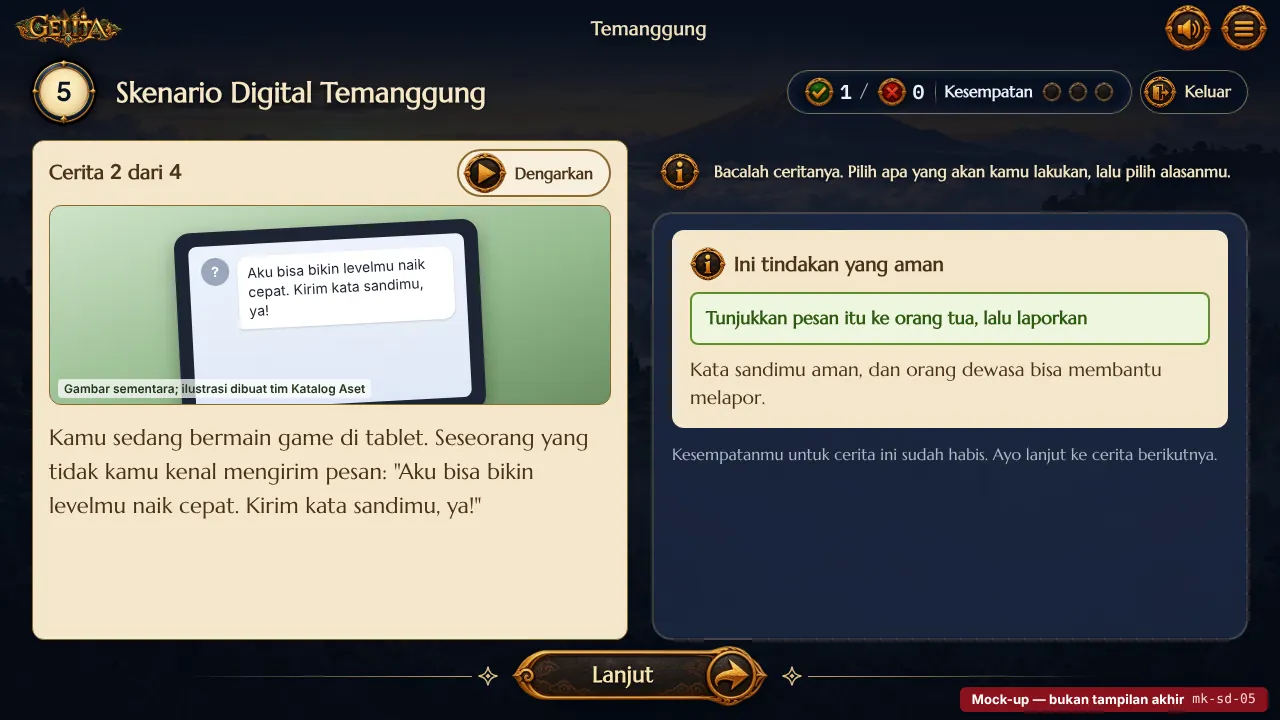
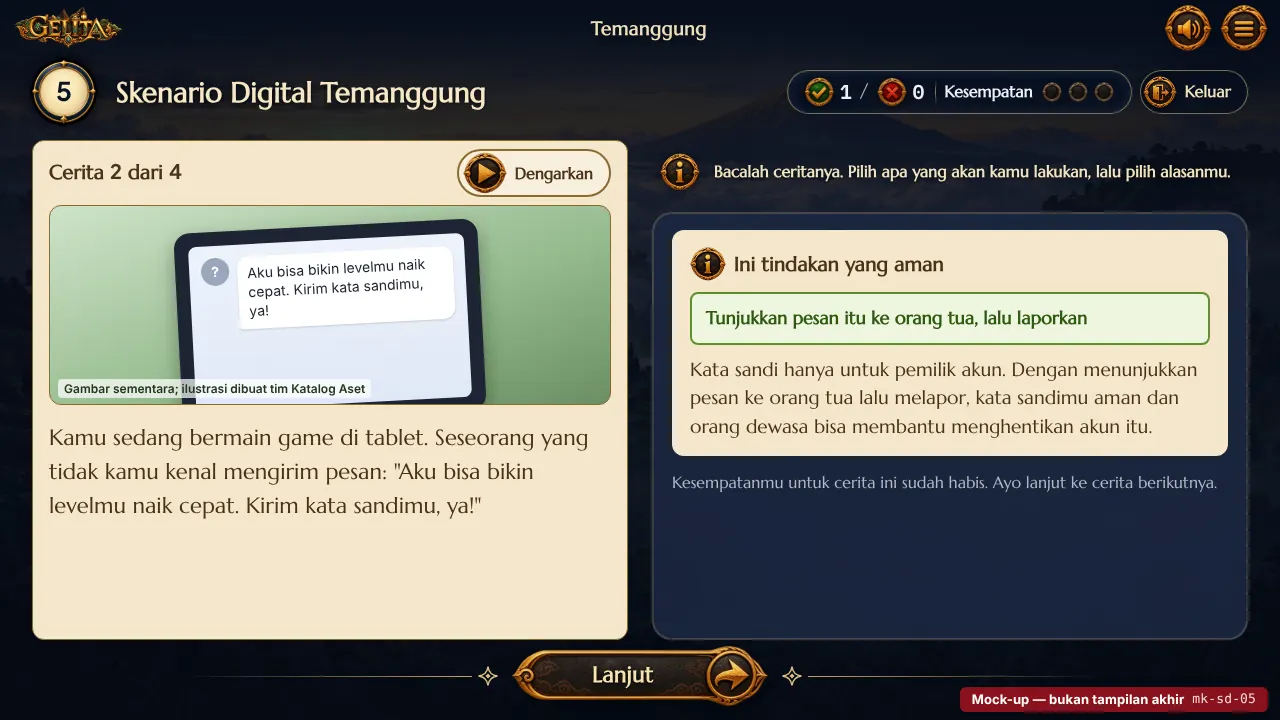
Write the Skenario Digital tries-exhausted explanations and redraw mk-sd-05
One explanation line per scenario (24) in 08, shown once after the third
try runs out without the safe action, with the rule in Cara membaca: name
the risk, then why the safe action works; no tepat/salah/gagal, not read
aloud, not scored. mk-sd-05 now shows the tmg-5-a02 line. 18, 04, and
PROGRESS updated.

Changed region(s): [[0.5, 0.4889, 0.9688, 0.7028]]

diff --git a/docs/revisi-10-analitik/gambar/mockup/src/mk-sd-05.html b/docs/revisi-10-analitik/gambar/mockup/src/mk-sd-05.html
@@ -50,7 +50,7 @@
             </div>
           </div>
         </div>
-        <div class="sd-panel stage-box"><div class="sd-feedback"><h3><img src="../../../../../public/assets/ui/round-info.webp" alt=""> Ini tindakan yang aman</h3><div class="sd-safe">Tunjukkan pesan itu ke orang tua, lalu laporkan</div><p>Kata sandimu aman, dan orang dewasa bisa membantu melapor.</p></div><p class="sd-tries-note">Kesempatanmu untuk cerita ini sudah habis. Ayo lanjut ke cerita berikutnya.</p></div>
+        <div class="sd-panel stage-box"><div class="sd-feedback"><h3><img src="../../../../../public/assets/ui/round-info.webp" alt=""> Ini tindakan yang aman</h3><div class="sd-safe">Tunjukkan pesan itu ke orang tua, lalu laporkan</div><p>Kata sandi hanya untuk pemilik akun. Dengan menunjukkan pesan ke orang tua lalu melapor, kata sandimu aman dan orang dewasa bisa membantu menghentikan akun itu.</p></div><p class="sd-tries-note">Kesempatanmu untuk cerita ini sudah habis. Ayo lanjut ke cerita berikutnya.</p></div>
         <div class="arena-actions stage-box"><button class="btn-plate is-next btn-action" type="button" style="--plate: url(&quot;../../../../../public/assets/ui/plate-next.webp&quot;)"><span>Lanjut</span></button></div>
       </div>
     </div>

diff --git a/docs/revisi-10-analitik/08_DRAF_BANK_SOAL.md b/docs/revisi-10-analitik/08_DRAF_BANK_SOAL.md
@@ -27,7 +27,7 @@ Ini isi bank soal baru, ditulis mengikuti kisi-kisi. Dokumen ini masih **draf un
 
 **Aturan kode di Periksa Unggahan (babak 2 Cari Objek).** Setiap petunjuk punya beberapa *pengecoh utama*, bagian adegan yang sengaja dibuat menggoda; kodenya ditulis di tabel. Mengetuk bagian ketuk lain, termasuk kunci petunjuk lain → **kode jenis petunjuk itu**: atribusi BUD-ATR, representasi BUD-REP, izin BUD-IZN, menghargai tradisi BUD-ETK. Mengetuk tempat kosong di dekat kunci → **NON-SEN**, bukan percobaan dan tidak memakai kesempatan (keputusan 26 Oktober 2026, [kamus data](11_KAMUS_DATA.md#analitik-6-pola-kesalahan)).
 
-**Skenario Digital.** Skor tindakan: tepat = 2, kurang tepat = 1, berisiko = 0. Alasan tidak diskor, hanya dikode. Kalimat tanya alasan selalu sama: **"Yang paling penting kupikirkan di sini adalah …"**. Pilihan tindakan dan alasan diacak per pengerjaan. Umpan balik tidak memakai kata "salah" atau "gagal".
+**Skenario Digital.** Skor tindakan: tepat = 2, kurang tepat = 1, berisiko = 0. Alasan tidak diskor, hanya dikode. Kalimat tanya alasan selalu sama: **"Yang paling penting kupikirkan di sini adalah …"**. Pilihan tindakan dan alasan diacak per pengerjaan. Umpan balik tidak memakai kata "salah" atau "gagal". **Penjelasan setelah kesempatan habis** tampil sekali, setelah kesempatan ketiga habis tanpa tindakan tepat: tindakan tepat ditampilkan, lalu satu kalimat penjelasan dari baris ini (keputusan pemilik proyek 26 Oktober 2026, [18](18_MOCKUP_LAYAR_BARU.md)). Kalimatnya menyebut apa yang membuat situasi itu berisiko, lalu mengapa tindakan tepat itu aman; tidak memakai kata "tepat", "salah", atau "gagal", tidak dibacakan, dan tidak diskor.
 
 **Nama dan alamat tiruan.** Semua akun, sanggar, warung, situs, dan tokoh di bacaan digital adalah fiktif. Unggahan tampil di aplikasi media sosial fiktif **Kedugram**, jadi nama akun di game tidak merujuk ke akun di platform sungguhan. Komentator ditulis dengan nama depan saja, tanpa @. Alamat situs memakai domain `.example`. Sebelum dipakai, setiap nama dicek bahwa tidak sama dengan akun, sanggar, atau usaha nyata (lihat *Yang harus dicek sebelum validasi*).
 
@@ -219,6 +219,8 @@ Pengecoh: angklung, ondel-ondel, perahu pinisi, sasando, semuanya **INF-BUD**.
 | Tutup situsnya dan cerita ke orang tua | 2 | — | Pilihan yang aman. Orang tua bisa membantu memeriksa apakah kuis itu sungguhan. |
 | Tutup situsnya dan lanjut bermain yang lain | 1 | DIG-PSF | Kamu sudah aman. Akan lebih baik lagi kalau kamu cerita ke orang tua, supaya mereka tahu ada situs seperti itu. |
 
+**Penjelasan setelah kesempatan habis:** Situs yang tidak jelas pembuatnya bisa memakai alamat dan nama sekolahmu. Dengan menutup situs dan bercerita ke orang tua, datamu aman dan orang tua bisa memeriksa kuis itu.
+
 | Alasan | Kode |
 | --- | --- |
 | Alamat dan sekolahku bisa dipakai orang asing | R-RISK |
@@ -232,6 +234,8 @@ Pengecoh: angklung, ondel-ondel, perahu pinisi, sasando, semuanya **INF-BUD**.
 | Kirim kata sandinya supaya levelmu cepat naik | 0 | DIG-SAN | Orang yang tahu kata sandimu bisa masuk dan memakai akunmu. Kata sandi hanya untuk pemilik akun. |
 | Tunjukkan pesan itu ke orang tua, lalu laporkan | 2 | — | Tepat sekali. Kata sandimu aman, dan orang dewasa bisa membantu melapor. |
 | Tidak membalas, lalu keluar dari game itu | 1 | DIG-PSF | Kata sandimu aman. Ceritakan juga ke orang tua supaya akun itu bisa dilaporkan. |
+
+**Penjelasan setelah kesempatan habis:** Kata sandi hanya untuk pemilik akun. Dengan menunjukkan pesan ke orang tua lalu melapor, kata sandimu aman dan orang dewasa bisa membantu menghentikan akun itu.
 
 | Alasan | Kode |
 | --- | --- |
@@ -247,6 +251,8 @@ Pengecoh: angklung, ondel-ondel, perahu pinisi, sasando, semuanya **INF-BUD**.
 | Tanya kakakmu dulu, boleh diunggah atau tidak | 1 | DIG-IZN | Bertanya itu bagus. Tapi yang punya akun adalah ibumu, jadi izinnya perlu dari ibu. |
 | Tunggu ibu selesai memasak, lalu tanya ibu | 2 | — | Tepat. Ibu bisa memutuskan, dan bisa membantu memilih siapa saja yang boleh melihat foto itu. |
 
+**Penjelasan setelah kesempatan habis:** Akun itu milik ibumu, jadi ibu yang berhak memutuskan. Dengan menunggu lalu bertanya ke ibu, kamu meminta izin kepada pemilik akunnya.
+
 | Alasan | Kode |
 | --- | --- |
 | Ibu pemilik akunnya, jadi ibu yang memutuskan | R-ETIK |
@@ -260,6 +266,8 @@ Pengecoh: angklung, ondel-ondel, perahu pinisi, sasando, semuanya **INF-BUD**.
 | Teruskan ke grup kelas supaya teman-teman tahu | 0 | DIG-HOX | Kabar tanpa sumber belum tentu benar. Kalau diteruskan, banyak teman bisa ikut bingung. |
 | Tanyakan dulu ke wali kelas apakah itu benar | 2 | — | Tepat. Guru dan orang tua bisa memeriksa ke sumber yang jelas, misalnya pengumuman sekolah. |
 | Tidak meneruskan dan tidak bertanya ke siapa pun | 1 | DIG-PSF | Kamu tidak ikut menyebarkan, bagus. Bertanya ke guru atau orang tua akan lebih membantu. |
+
+**Penjelasan setelah kesempatan habis:** Kabar tanpa pembuat belum tentu benar. Dengan bertanya dulu ke wali kelas, kamu tahu kebenarannya dari sumber yang jelas sebelum ada yang ikut bingung.
 
 | Alasan | Kode |
 | --- | --- |
@@ -277,6 +285,8 @@ Pengecoh: angklung, ondel-ondel, perahu pinisi, sasando, semuanya **INF-BUD**.
 | Berhenti mengisi dan tanya orang tua dulu | 2 | — | Pilihan yang aman. Orang tua bisa mencari tahu siapa penyelenggaranya. |
 | Berhenti mengisi, lalu cari lomba yang lain | 1 | DIG-PSF | Datamu aman. Akan lebih baik kalau orang tua juga tahu. |
 
+**Penjelasan setelah kesempatan habis:** Penyelenggara lomba ini tidak jelas, padahal ia meminta nomor HP orang tua dan alamat rumah. Dengan berhenti dan bertanya ke orang tua, datamu aman dan orang tua bisa mencari tahu siapa penyelenggaranya.
+
 | Alasan | Kode |
 | --- | --- |
 | Data pribadi bisa dipakai orang asing | R-RISK |
@@ -290,6 +300,8 @@ Pengecoh: angklung, ondel-ondel, perahu pinisi, sasando, semuanya **INF-BUD**.
 | Tulis kata sandinya supaya dapat koin gratis | 0 | DIG-SAN | Kata sandi yang ditulis di ruang obrolan bisa dibaca orang lain. Akunmu bisa diambil alih. |
 | Tunjukkan ke orang tua, lalu laporkan akunnya | 2 | — | Tepat. Akunmu aman dan akun itu bisa dilaporkan. |
 | Tidak menjawab, lalu keluar dari ruang obrolan | 1 | DIG-PSF | Akunmu aman. Ceritakan juga ke orang tua, ya. |
+
+**Penjelasan setelah kesempatan habis:** Kata sandi yang ditulis di ruang obrolan bisa dibaca orang lain. Dengan menunjukkan ke orang tua lalu melaporkan akunnya, akunmu aman dan akun itu bisa dihentikan.
 
 | Alasan | Kode |
 | --- | --- |
@@ -305,6 +317,8 @@ Pengecoh: angklung, ondel-ondel, perahu pinisi, sasando, semuanya **INF-BUD**.
 | Tanya temanmu dulu, boleh diunggah atau tidak | 1 | DIG-IZN | Bertanya itu bagus. Tapi yang berhak memberi izin adalah pemilik akun, yaitu ayahmu. |
 | Tunggu ayah pulang, lalu tanya ayah | 2 | — | Tepat. Ayah bisa memutuskan dan membantu mengatur siapa yang boleh menonton. |
 
+**Penjelasan setelah kesempatan habis:** Akun itu milik ayahmu, jadi ayah yang berhak memberi izin. Dengan menunggu ayah pulang lalu bertanya, kamu meminta izin kepada pemilik akunnya.
+
 | Alasan | Kode |
 | --- | --- |
 | Ayah pemilik akunnya, jadi ayah yang memutuskan | R-ETIK |
@@ -318,6 +332,8 @@ Pengecoh: angklung, ondel-ondel, perahu pinisi, sasando, semuanya **INF-BUD**.
 | Teruskan ke grup lain supaya banyak yang tahu | 0 | DIG-HOX | Kabar tanpa sumber belum tentu benar. Kopi mengandung kafein dan bukan minuman untuk anak-anak. |
 | Tanyakan dulu ke guru apakah itu benar | 2 | — | Tepat. Guru dan orang tua bisa membantu mencari sumber yang dapat dipercaya. |
 | Tidak meneruskan dan tidak bertanya ke siapa pun | 1 | DIG-PSF | Kamu tidak ikut menyebarkan, bagus. Bertanya akan lebih membantu teman-temanmu. |
+
+**Penjelasan setelah kesempatan habis:** Pesan tanpa pembuat belum tentu benar. Dengan bertanya dulu ke guru, kamu tidak ikut menyebarkan kabar yang belum pasti.
 
 | Alasan | Kode |
 | --- | --- |
@@ -533,6 +549,8 @@ Pengecoh: kuda kepang bambu, manisan carica, dadak merak Reog, angklung, bakpia,
 | Berhenti, lalu tanya orang tua apakah aman | 2 | — | Tepat. Kuis yang meminta data pribadi patut dicurigai, dan orang tua bisa membantu memeriksanya. |
 | Berhenti main tanpa cerita ke siapa pun | 1 | DIG-PSF | Datamu aman. Cerita ke orang tua akan membantu kalau aplikasi itu nanti muncul lagi. |
 
+**Penjelasan setelah kesempatan habis:** Kuis ini meminta tanggal lahir dan nama lengkap ibumu, padahal data itu tidak perlu untuk sebuah kuis. Dengan berhenti dan bertanya ke orang tua, datamu tetap aman.
+
 | Alasan | Kode |
 | --- | --- |
 | Data itu bisa dipakai orang untuk membobol akun | R-RISK |
@@ -548,6 +566,8 @@ Pengecoh: kuda kepang bambu, manisan carica, dadak merak Reog, angklung, bakpia,
 | Beri tahu sekarang, nanti kata sandinya diganti | 0 | DIG-SAN | Selama belum diganti, akunmu bisa dipakai orang lain. Lebih aman kalau tidak dibagikan sama sekali. |
 | Tolak dengan ramah, lalu ajak main bersama | 2 | — | Tepat. Akunmu aman dan persahabatan kalian tetap terjaga. |
 | Tolak tanpa menjelaskan apa pun ke Laras | 1 | DIG-PSF | Menolak memberi kata sandi itu benar. Menjelaskan alasannya dengan ramah membuat Laras mengerti dan tidak salah paham. |
+
+**Penjelasan setelah kesempatan habis:** Kata sandi hanya untuk pemilik akun, walaupun yang meminta sahabatmu sendiri. Dengan menolak dengan ramah lalu mengajak main bersama, akunmu aman dan kalian tetap bersahabat.
 
 | Alasan | Kode |
 | --- | --- |
@@ -565,6 +585,8 @@ Pengecoh: kuda kepang bambu, manisan carica, dadak merak Reog, angklung, bakpia,
 | Tanya Dimas dulu, boleh dibagikan atau tidak | 2 | — | Tepat. Foto orang lain hanya dibagikan kalau orangnya setuju. |
 | Simpan fotonya di HP tanpa bertanya ke Dimas | 1 | DIG-PSF | Kamu tidak membagikannya, bagus. Lebih baik lagi kalau kamu bertanya ke Dimas, karena itu fotonya. |
 
+**Penjelasan setelah kesempatan habis:** Dimas mungkin malu kalau foto itu tersebar. Dengan bertanya dulu ke Dimas, kamu hanya membagikan fotonya kalau ia setuju.
+
 | Alasan | Kode |
 | --- | --- |
 | Dimas mungkin malu kalau fotonya disebar | R-ETIK |
@@ -580,6 +602,8 @@ Pengecoh: kuda kepang bambu, manisan carica, dadak merak Reog, angklung, bakpia,
 | Ajak teman-teman langsung berangkat besok | 0 | DIG-HOX | Sebaiknya kabar dicek dulu sebelum dipakai untuk membuat rencana. |
 | Cek dulu di situs resmi candi bersama orang tua | 2 | — | Tepat. Sumber resmi bisa memastikan benar atau tidaknya kabar itu. |
 | Tidak meneruskan dan tidak menanggapi apa pun | 1 | DIG-PSF | Kamu tidak ikut menyebarkan, bagus. Mengecek ke sumber resmi akan membantu teman-temanmu juga. |
+
+**Penjelasan setelah kesempatan habis:** Pesan itu tidak menyebut sumber resmi. Dengan mengecek situs resmi candi bersama orang tua, kamu tahu benar atau tidaknya sebelum ikut menyebarkan.
 
 | Alasan | Kode |
 | --- | --- |
@@ -599,6 +623,8 @@ Pengecoh: kuda kepang bambu, manisan carica, dadak merak Reog, angklung, bakpia,
 | Tanya orang tua; sebut nama panggilan saja | 2 | — | Tepat. Kamu tetap bisa ikut lomba tanpa membuka data pribadi. |
 | Tidak jadi ikut tanpa cerita ke siapa pun | 1 | DIG-PSF | Datamu aman. Orang tua mungkin bisa membantumu ikut lomba dengan cara yang aman. |
 
+**Penjelasan setelah kesempatan habis:** Video itu bisa dilihat siapa saja, jadi nama lengkap dan alamat rumahmu bisa diketahui orang asing. Dengan bertanya ke orang tua dan menyebut nama panggilan saja, kamu tetap bisa ikut lomba dengan aman.
+
 | Alasan | Kode |
 | --- | --- |
 | Orang asing bisa tahu alamat rumahku | R-RISK |
@@ -614,6 +640,8 @@ Pengecoh: kuda kepang bambu, manisan carica, dadak merak Reog, angklung, bakpia,
 | Beri tahu sekarang, nanti kata sandinya diganti | 0 | DIG-SAN | Selama belum diganti, akunmu bisa dipakai orang lain. Lebih aman tidak dibagikan. |
 | Tolak dengan ramah, lalu ajak kerja bersama | 2 | — | Tepat. Akunmu aman dan tugas kelompok tetap jalan. |
 | Tolak tanpa menjelaskan apa pun ke Arif | 1 | DIG-PSF | Menolak memberi kata sandi itu benar. Menjelaskan alasannya dengan ramah membuat Arif mengerti dan tugas tetap jalan. |
+
+**Penjelasan setelah kesempatan habis:** Kata sandi hanya untuk pemilik akun, walaupun yang meminta teman sekelompok. Dengan menolak dengan ramah dan mengajak kerja bersama, akunmu aman dan tugas tetap selesai.
 
 | Alasan | Kode |
 | --- | --- |
@@ -631,6 +659,8 @@ Pengecoh: kuda kepang bambu, manisan carica, dadak merak Reog, angklung, bakpia,
 | Tanya Sekar dulu, atau pilih foto yang lain | 2 | — | Tepat. Setiap orang di foto berhak setuju atau tidak. |
 | Simpan fotonya di HP tanpa bertanya ke Sekar | 1 | DIG-PSF | Kamu tidak membagikannya, bagus. Bertanya ke Sekar akan lebih baik. |
 
+**Penjelasan setelah kesempatan habis:** Sekar mungkin tidak ingin fotonya dilihat banyak orang dalam keadaan begitu. Dengan bertanya ke Sekar dulu atau memilih foto lain, kamu menghargai perasaannya.
+
 | Alasan | Kode |
 | --- | --- |
 | Sekar mungkin malu kalau fotonya diunggah | R-ETIK |
@@ -646,6 +676,8 @@ Pengecoh: kuda kepang bambu, manisan carica, dadak merak Reog, angklung, bakpia,
 | Unggah tulisan "Jangan beli getuk!" di media sosial | 0 | DIG-HOX | Sebelum menyebarkan peringatan, kabarnya perlu dicek dulu. |
 | Cek dulu di berita tepercaya bersama orang tua | 2 | — | Tepat. Mengecek ke sumber yang jelas mencegah kabar bohong menyebar. |
 | Tidak meneruskan dan tidak menanggapi apa pun | 1 | DIG-PSF | Kamu tidak ikut menyebarkan, bagus. Mengecek dan memberi tahu teman akan lebih membantu. |
+
+**Penjelasan setelah kesempatan habis:** Pesan itu tidak menyebut sumber atau bukti. Dengan mengecek berita tepercaya bersama orang tua, kamu tidak ikut menyebarkan kabar yang belum pasti.
 
 | Alasan | Kode |
 | --- | --- |
@@ -871,6 +903,8 @@ Pengecoh: pepaya biasa, rigen, semangkuk mi ongklok, angklung, sasando, biji kop
 | Tunjukkan ke orang tua, lalu blokir akunnya | 2 | — | Tepat. Datamu aman, dan akun penipu bisa dihentikan. |
 | Diamkan saja tanpa cerita ke siapa pun | 1 | DIG-PSF | Datamu aman. Cerita ke orang tua akan membantu melindungi orang lain juga. |
 
+**Penjelasan setelah kesempatan habis:** Hadiah dari akun yang tidak dikenal, apalagi yang mendesak, bisa jadi tipuan untuk mengambil data. Dengan menunjukkan ke orang tua lalu memblokir akunnya, data keluargamu aman.
+
 | Alasan | Kode |
 | --- | --- |
 | Hadiah dari orang asing bisa jadi tipuan | R-RISK |
@@ -889,6 +923,8 @@ Skenario ini diambil dari contoh di 01; kalimat tanya alasannya dibuat netral.
 | Balas dulu, tanya apakah mereka benar tim resmi | 0 | DIG-ASG | Penipu akan selalu menjawab "benar". Membalas membuatmu terus dibujuk. |
 | Tunjukkan pesan dan SMS-nya ke ibu | 2 | — | Tepat. Kode tetap aman, ibu tahu ada yang mencoba masuk ke akunnya, dan kalian bisa melaporkan akun itu bersama. |
 | Hapus pesan itu dan tidak cerita ke ibu | 1 | DIG-PSF | Kodenya aman. Ibu perlu tahu, karena kode itu masuk ke HP-nya. |
+
+**Penjelasan setelah kesempatan habis:** Kode dari SMS adalah kunci untuk masuk ke akun, dan akun yang tampak resmi pun bisa palsu. Dengan menunjukkan pesan dan SMS-nya ke ibu, kode tetap aman dan kalian bisa melapor bersama.
 
 | Alasan | Kode |
 | --- | --- |
@@ -909,6 +945,8 @@ Skenario ini diambil dari contoh di 01; kalimat tanya alasannya dibuat netral.
 | Minta grup bertanya langsung ke Bima, lalu sapa Bima | 2 | — | Tepat. Rahasia Bima terjaga, dan kamu tetap peduli padanya. |
 | Tidak menjawab grup dan tidak menyapa Bima | 1 | DIG-PSF | Rahasia Bima aman. Menyapa Bima secara pribadi akan membuatnya merasa ditemani. |
 
+**Penjelasan setelah kesempatan habis:** Cerita Bima di pesan pribadi adalah rahasianya. Dengan meminta teman-teman bertanya langsung ke Bima, rahasia Bima terjaga dan kamu tetap bisa menyapanya.
+
 | Alasan | Kode |
 | --- | --- |
 | Bima belum tentu mau ceritanya disebar | R-ETIK |
@@ -925,6 +963,8 @@ Skenario ini diambil dari contoh di 01; kalimat tanya alasannya dibuat netral.
 | Balas di grup: "Fikri bodoh, itu hoaks!" | 0 | DIG-ETK | Kamu benar soal fotonya, tapi kata-kata kasar membuat Fikri malu dan teman lain enggan mendengar. |
 | Beri tahu Fikri dengan sopan bahwa itu foto lama | 2 | — | Tepat. Kabar bohong bisa berhenti, dan Fikri tetap dihargai. Ajak juga mengecek akun resmi pengelola. |
 | Tidak menyebarkan dan tidak menanggapi apa pun | 1 | DIG-PSF | Kamu tidak ikut menyebarkan, bagus. Memberi tahu dengan sopan bisa menghentikan kabar bohong itu. |
+
+**Penjelasan setelah kesempatan habis:** Foto yang sama ada di berita lama dari daerah lain, jadi kabar itu belum tentu benar. Dengan memberi tahu Fikri dengan sopan, kabar itu bisa berhenti tanpa membuat Fikri malu.
 
 | Alasan | Kode |
 | --- | --- |
@@ -945,6 +985,8 @@ Skenario ini diambil dari contoh di 01; kalimat tanya alasannya dibuat netral.
 | Tunjukkan ke orang tua, dan ingatkan Sinta juga | 2 | — | Tepat. Datamu aman, dan kamu ikut menolong Sinta. |
 | Tidak ikut, dan tidak membahasnya dengan Sinta | 1 | DIG-PSF | Datamu aman. Sinta mungkin perlu bantuan karena sudah mengirim datanya. |
 
+**Penjelasan setelah kesempatan habis:** Kartu Keluarga dan nomor HP orang tua adalah data pribadi keluarga, walaupun temanmu bilang aman. Dengan menunjukkan ke orang tua dan mengingatkan Sinta, kamu menjaga datamu dan menolong temanmu.
+
 | Alasan | Kode |
 | --- | --- |
 | Data keluarga bisa disalahgunakan orang asing | R-RISK |
@@ -961,6 +1003,8 @@ Skenario ini diambil dari contoh di 01; kalimat tanya alasannya dibuat netral.
 | Balas pesannya, tanya apakah benar admin sekolah | 0 | DIG-ASG | Pengirim palsu akan menjawab "benar". Lebih aman bertanya langsung ke guru. |
 | Tunjukkan pesan itu ke guru tanpa membukanya | 2 | — | Tepat. Guru bisa memastikan, dan teman-teman lain bisa diperingatkan. |
 | Hapus pesannya dan tidak cerita ke siapa pun | 1 | DIG-PSF | Kata sandimu aman. Memberi tahu guru akan melindungi teman-temanmu juga. |
+
+**Penjelasan setelah kesempatan habis:** Alamat situs itu berbeda dari situs sekolah yang biasa, jadi pesannya belum tentu dari sekolah. Dengan menunjukkan pesan ke guru tanpa membukanya, kata sandimu aman dan guru bisa memastikan.
 
 | Alasan | Kode |
 | --- | --- |
@@ -979,6 +1023,8 @@ Skenario ini diambil dari contoh di 01; kalimat tanya alasannya dibuat netral.
 | Bilang di grup bahwa kamu perlu izin Nadia dulu | 2 | — | Tepat. Kamu menjaga perasaan Nadia walaupun teman-teman mendesak. |
 | Tidak menjawab grup dan tetap menyimpan fotonya | 1 | DIG-PSF | Fotonya tidak tersebar, bagus. Menjelaskan alasanmu bisa membuat teman lain ikut berpikir. |
 
+**Penjelasan setelah kesempatan habis:** Nadia tidak tahu dirinya difoto dan mungkin malu kalau foto itu tersebar. Dengan mengatakan di grup bahwa kamu perlu izin Nadia dulu, kamu menjaga perasaannya walaupun teman-teman mendesak.
+
 | Alasan | Kode |
 | --- | --- |
 | Nadia belum tentu mau fotonya disebar | R-ETIK |
@@ -995,6 +1041,8 @@ Skenario ini diambil dari contoh di 01; kalimat tanya alasannya dibuat netral.
 | Balas di grup: "Fikri bodoh, mana ada begitu!" | 0 | DIG-ETK | Mengingatkan itu bagus, tapi kata-kata kasar membuat Fikri malu. |
 | Ingatkan Fikri dengan sopan untuk cek sumbernya | 2 | — | Tepat. Kabar dicek dulu, dan Fikri tetap dihargai. |
 | Tidak mengirim dan tidak menanggapi apa pun | 1 | DIG-PSF | Kamu tidak ikut menyebarkan, bagus. Memberi tahu dengan sopan bisa menghentikan kabar itu. |
+
+**Penjelasan setelah kesempatan habis:** Video tanpa sumber belum tentu benar, dan sudah mulai tersebar. Dengan mengingatkan Fikri dengan sopan untuk mengecek sumbernya, kabar itu bisa dicek dulu sebelum menyebar lebih jauh.
 
 | Alasan | Kode |
 | --- | --- |

diff --git a/docs/revisi-10-analitik/18_MOCKUP_LAYAR_BARU.md b/docs/revisi-10-analitik/18_MOCKUP_LAYAR_BARU.md
@@ -56,7 +56,7 @@ Ukuran gambar 27–111 KB (WebP, jumlah ± 1,6 MB). Semua layar game digambar di
 | [`mk-sd-04`](gambar/mockup/mk-sd-04.webp) | Umpan balik setelah pilihan "kurang tepat", kesempatan tersisa 2 dari 3. Tanpa kata "salah" atau "gagal", tanpa warna merah; tombol *Coba lagi* |
 | [`mk-sd-05`](gambar/mockup/mk-sd-05.webp) | Kesempatan ketiga habis: tindakan yang aman ditampilkan dan dijelaskan, tombol *Lanjut* ke cerita berikutnya |
 
-*Draf salinan* (belum ada di dokumen sumber): "Kamu masih punya 2 kesempatan. Pilih lagi tindakan dan alasanmu.", "Ini tindakan yang aman", "Kesempatanmu untuk cerita ini sudah habis. Ayo lanjut ke cerita berikutnya.", dan penjelasan tindakan aman di `mk-sd-05`, yang sementara memakai umpan balik pilihan tepat tanpa "Tepat sekali.". Pemilik proyek memutuskan penjelasan ini ditulis sebagai satu kalimat tersendiri per skenario di 08 (celah no. 1); gambarnya diganti setelah kalimat `tmg-5-a02` ada.
+*Draf salinan* (belum ada di dokumen sumber): "Kamu masih punya 2 kesempatan. Pilih lagi tindakan dan alasanmu.", "Ini tindakan yang aman", "Kesempatanmu untuk cerita ini sudah habis. Ayo lanjut ke cerita berikutnya.", Penjelasan tindakan aman di `mk-sd-05` bukan draf: itu baris *Penjelasan setelah kesempatan habis* `tmg-5-a02` di 08, kata demi kata (celah no. 1).
 
 **Yang dinilai ahli media.**
 - Apakah dua langkah (tindakan, lalu alasan) jelas bagi anak kelas 5, dan langkah alasan tidak terasa seperti soal kedua yang membingungkan?
@@ -169,7 +169,7 @@ Usulan bagian mock-up di instrumen media v1.1 (ditulis di 07 → *Langkah beriku
 
 Ditemukan saat menggambar; tidak diperbaiki di sini karena berkasnya milik dokumen lain.
 
-1. **Penjelasan setelah kesempatan Skenario Digital habis.** 01 menulis "tindakan yang aman ditampilkan dan dijelaskan", tetapi 08 hanya punya umpan balik per pilihan. Umpan balik pilihan tepat diawali "Tepat sekali." atau "Tepat.", yang janggal kalau siswa tidak memilihnya. **Diputuskan (26 Oktober 2026): satu kalimat penjelasan per skenario ditulis di 08** (24 kalimat, kolom atau baris baru), divalidasi bersama bank. Dikerjakan di sisi bank, bukan di sesi ini.
+1. **Penjelasan setelah kesempatan Skenario Digital habis.** 01 menulis "tindakan yang aman ditampilkan dan dijelaskan", tetapi 08 hanya punya umpan balik per pilihan. Umpan balik pilihan tepat diawali "Tepat sekali." atau "Tepat.", yang janggal kalau siswa tidak memilihnya. **Diputuskan (26 Oktober 2026): satu kalimat penjelasan per skenario ditulis di 08** (24 kalimat, kolom atau baris baru), divalidasi bersama bank. **Selesai:** 24 baris *Penjelasan setelah kesempatan habis* ditulis di 08, dengan aturannya di *Cara membaca*, dan `mk-sd-05` digambar ulang.
 2. **Pesan ketukan keliru di *Periksa Unggahan*.** Pesan Cari Objek sekarang menyebut *benda*. Babak 2 butuh kalimat sendiri; usulan di layar 2.
 3. **Salinan modul tes.** 13 menetapkan pengingat lima menit dan daftar nomor soal, tetapi tidak menulis kalimatnya. Usulan di layar 4 perlu masuk 13 atau dokumen implementasi, lalu ikut uji keterbacaan.
 4. **Salinan token dan layar penelitian.** 01 hanya menulis pesan di luar sesi. Pesan token keliru, token lewat jam, dan layar kecil belum ada; usulan di layar 3.
@@ -189,6 +189,6 @@ Putaran 1 (26 Oktober 2026), sebelum menggambar:
 Putaran 2 (26 Oktober 2026), setelah melihat gambar:
 
 1. **Gambar disetujui apa adanya** untuk paket ahli media langkah 1. `mk-ss-01` diperbarui setelah 17 final.
-2. **Penjelasan setelah kesempatan Skenario Digital habis: satu kalimat per skenario di 08**, bukan umpan balik pilihan tepat yang dipotong. Sampai kalimat itu ada, `mk-sd-05` memakai umpan balik pilihan tepat tanpa kata pembukanya.
+2. **Penjelasan setelah kesempatan Skenario Digital habis: satu kalimat per skenario di 08**, bukan umpan balik pilihan tepat yang dipotong. Ke-24 kalimatnya sudah ditulis di 08, dan `mk-sd-05` sudah digambar ulang dengan kalimat `tmg-5-a02`.
 3. **Lapisan pemeriksaan area ketuk (`mk-pu-02`) ikut dikirim ke ahli media**, bertanda jelas tidak tampil ke siswa.
 4. **Draf salinan di dokumen ini diterima sebagai teks awal.** Kalimat akhirnya ditetapkan di dokumen implementasi, setelah telaah ahli media dan uji keterbacaan dengan anak.

diff --git a/docs/PROGRESS.md b/docs/PROGRESS.md
@@ -52,7 +52,7 @@ Documentation only, in `docs/revisi-10-analitik/` (Indonesian, at the owner's re
 - [ ] Mock-ups of the new screens for media expert step 1 (`18_MOCKUP_LAYAR_BARU.md`, work item 20 in `01`), branch `r10-mockup-media`
   - [x] 23 WebP mock-ups in `gambar/mockup/` from static HTML on the game's real CSS and UI pictures (sources in `gambar/mockup/src/`, `render.mjs`): Skenario Digital (5 states), *Periksa Unggahan* (4, incl. a tap-area check layer), token and research-mode screens (5, incl. the researcher panel), test and questionnaire module (6), attitude scale (placeholder), link scene and mission card; `03` gets the `mk-*` codes
   - [x] Owner decided two rounds (26 October 2026, `04`): real-game fidelity, all states and token screens, story screens included; pictures approved, the tap-area layer goes to the expert, draft copy accepted as starting text
-  - [ ] Write one explanation line per Skenario Digital scenario in `08` for the tries-exhausted screen (owner, 26 October 2026), then redraw `mk-sd-05`
+  - [x] One explanation line per Skenario Digital scenario written in `08` for the tries-exhausted screen (24 lines, rule in *Cara membaca*; owner, 26 October 2026), `mk-sd-05` redrawn; the lines go to expert validation with the bank
   - [ ] Redraw `mk-ss-01` once `17_SKALA_SIKAP.md` is final
 - [ ] Complete implementation document, after the revision documents are final and gate G2 (expert validation and ethics approval) is passed
 - [ ] Implementation of the system changes listed in `01` (22 so far), one short-lived branch each, after the implementation document is approved

diff --git a/docs/revisi-10-analitik/04_CATATAN_KEPUTUSAN.md b/docs/revisi-10-analitik/04_CATATAN_KEPUTUSAN.md
@@ -22,7 +22,7 @@ Putaran 2, setelah melihat 23 gambar:
 3. **Lapisan pemeriksaan area ketuk (`mk-pu-02`) ikut dikirim ke ahli media**, bertanda tidak tampil ke siswa.
 4. **Draf salinan di 18** (token keliru, layar kecil, ketukan keliru di *Periksa Unggahan*, pengingat lima menit, kalimat kesempatan habis) **diterima sebagai teks awal**; kalimat akhirnya ditetapkan di dokumen implementasi setelah telaah ahli dan uji keterbacaan.
 
-Akibatnya: 18 ditulis; 00, 01 (daftar kerja no. 20), dan 03 (kode `mk-*`) diperbarui. 08 perlu kalimat penjelasan per skenario (celah no. 1 di 18). Celah lain yang ditemukan dicatat di 18 → *Celah yang ditemukan di dokumen lain*.
+Akibatnya: 18 ditulis; 00, 01 (daftar kerja no. 20), dan 03 (kode `mk-*`) diperbarui. Atas permintaan pemilik proyek di sesi yang sama, 24 kalimat *Penjelasan setelah kesempatan habis* ditulis di 08 (satu per skenario, dengan aturannya di *Cara membaca*: menyebut risikonya lalu mengapa tindakan tepat aman, tanpa kata "tepat", "salah", atau "gagal", tidak dibacakan, tidak diskor), dan `mk-sd-05` digambar ulang. Kalimatnya ikut validasi ahli bersama bank. Celah lain yang ditemukan dicatat di 18 → *Celah yang ditemukan di dokumen lain*.
 
 **Keputusan pemilik proyek: lembar lapangan final, putaran 1** (sesi `r10-lembar-lapangan`, daftar kerja no. 11)
 
